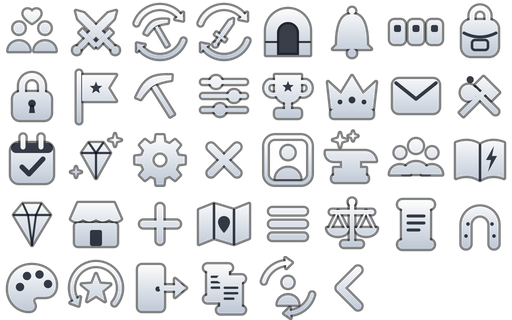
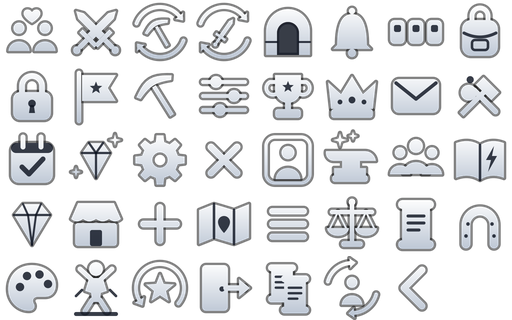
Relevo mais manso: terraco de 3 blocos e serra do planalto menor
O auto path travava nos morros: degrau de 4 blocos e parede que nem pulando
vence (o pulo sobe 3). Medido na ilha, por par de colunas vizinhas em terra:

  Floresta  >=4 blocos 3,33% -> 1,91%
  Gelo      >=4 blocos 1,14% -> 0,30%
  Montanha  >=2 blocos 25,4% -> 12,9% | >=4 blocos 8,09% -> 2,27%

- terraco_blocos 4 -> 3 em Floresta, Gelo e Montanha (Deserto ja era 2).
- Montanha: colina 18 -> 14, serra 40 -> 26 e corte mais tarde.
- Cache de altura VERSAO 4 -> 5: o relevo mudou, o mundo regenera (3,6 s).
- Minerio: o corte do roxo sobe pra 0,82; com o patamar novo o topo engolia a
  faixa azul e a escada de raridade invertia.
- PULO vai pro quarto slot do arco, que so desenhava disco cinza sem funcao,
  com icone proprio no atlas.

Changed region(s): [[0.125, 0.7812, 0.75, 1.0], [0.7812, 0.8125, 0.8438, 0.9688]]

diff --git a/crates/shared/src/terreno.rs b/crates/shared/src/terreno.rs
@@ -238,7 +238,7 @@ impl Bioma {
                 colina: (8.0, 15.0),
                 serra: (12.0, 30.0),
                 corte: [0.42, 0.52, 0.66, 0.78],
-                terraco_blocos: 4,
+                terraco_blocos: 3,
                 terraco_forca: 0.92,
             },
             // Gelo e' chapada com pico seco: muita planicie, e quando sobe,
@@ -248,7 +248,7 @@ impl Bioma {
                 colina: (7.0, 12.0),
                 serra: (12.0, 24.0),
                 corte: [0.50, 0.58, 0.70, 0.80],
-                terraco_blocos: 4,
+                terraco_blocos: 3,
                 terraco_forca: 0.94,
             },
             // Duna: amplitude baixa, quase nunca serra e SEM terraco —
@@ -267,16 +267,16 @@ impl Bioma {
             // virar patamar de andar, que e' o que separa planalto de morro.
             Bioma::Montanha => PerfilDeRelevo {
                 planicie: (8.0, 5.0),
-                colina: (14.0, 18.0),
-                serra: (18.0, 40.0),
+                colina: (14.0, 14.0),
+                serra: (18.0, 26.0),
                 // A serra domina, mas nao sozinha: com o corte em 0,18 quase
                 // metade da terra colapsava num nivel so' e a ilha virava uma
                 // mesa — 46% das colunas na mesma faixa de altura.
-                corte: [0.28, 0.38, 0.52, 0.64],
+                corte: [0.34, 0.46, 0.62, 0.74],
                 // Degrau grande e' o que separa PLANALTO de morro, mas a
                 // forca fica abaixo do gelo: 0,95 com degrau de 6 nivelava
                 // tudo.
-                terraco_blocos: 4,
+                terraco_blocos: 3,
                 terraco_forca: 0.85,
             },
         }
@@ -1168,15 +1168,14 @@ pub const MINERIO_LIMIAR: f32 = 0.42;
 /// pico, melhor o minerio — e a pedra roxa fica no ponto mais alto da ilha,
 /// que e' o unico jeito de o topo da montanha ser um destino.
 ///
-/// As faixas caem ENTRE os patamares do relevo (o terraco sobe de 2 em 2
-/// unidades), nunca em cima de um: faixa cortando um patamar ao meio poria
-/// pedra de duas cores no mesmo cume. Medido na ilha inicial com a regra de
-/// cume + chao limpo, estas faixas dao 226 cinza, 105 verde, 50 azul e 25
-/// roxo — cada cor com metade da anterior, e a roxa so' nos picos de 30 u
-/// pra cima.
+/// As faixas caem ENTRE os patamares do relevo, nunca em cima de um: faixa
+/// cortando um patamar ao meio poria pedra de duas cores no mesmo cume. O
+/// corte do roxo subiu pra 0,82 quando o terraco desceu de 4 pra 3 blocos
+/// (degrau de 4 e' parede que nem pulando vence): com 0,78 o topo engolia a
+/// faixa azul e a escada de raridade invertia.
 pub fn tier_de_minerio(altura: f32, pico: f32) -> u8 {
     let t = altura / pico.max(1.0);
-    if t < 0.57 { 1 } else if t < 0.73 { 2 } else if t < 0.78 { 3 } else { 4 }
+    if t < 0.57 { 1 } else if t < 0.73 { 2 } else if t < 0.82 { 3 } else { 4 }
 }
 
 /// A pedra de minerio desta coluna, se houver.
@@ -2029,7 +2028,7 @@ const MAGICA: [u8; 4] = *b"TALT";
 /// 3: plato da cidade maior, patio do porto e o pier erguido no relevo.
 /// 4: o porto so' assenta em costa de MAR ABERTO (antes caia em lago), e o
 /// patio e o pier mudaram de lugar.
-const VERSAO: u16 = 4;
+const VERSAO: u16 = 5;
 
 impl Ilha {
     pub fn gerar(semente: i32, raio_blocos: i32, bioma: Bioma, escala_altura: f32) -> Self {

diff --git a/crates/client/src/hud.rs b/crates/client/src/hud.rs
@@ -250,16 +250,21 @@ pub fn draw_pulo(z: &Zonas, no_ar: bool) -> (bool, bool) {
     let m = mouse();
     let sobre = r.contains(m);
     let segurando = sobre && is_mouse_button_down(MouseButton::Left);
-    estilo::cartao(r, sobre, no_ar);
     let c = r.center();
-    let cor = if no_ar { estilo::OURO } else { Color::new(0.62, 0.78, 0.95, 1.0) };
-    // Seta pra cima com uma base: le' como "pular" sem precisar de texto.
-    let s = r.w * 0.22;
-    estilo::traco(c + vec2(0.0, s * 0.9), c - vec2(0.0, s * 0.9), 2.4, cor);
-    estilo::traco(c - vec2(0.0, s * 0.9), c + vec2(-s * 0.7, s * 0.1), 2.4, cor);
-    estilo::traco(c - vec2(0.0, s * 0.9), c + vec2(s * 0.7, s * 0.1), 2.4, cor);
-    estilo::traco(c + vec2(-s * 0.8, s * 1.2), c + vec2(s * 0.8, s * 1.2), 2.2, estilo::alfa(cor, 0.7));
-    layout::chip(r, "␣");
+    let raio = r.w * 0.5;
+    // Mesmo disco das skills: ele E' o quarto slot do arco.
+    let cor = if no_ar { estilo::OURO } else { Color::new(0.62, 0.80, 0.98, 1.0) };
+    let e = estilo::estado(sobre, is_mouse_button_down(MouseButton::Left), false, no_ar);
+    estilo::botao_redondo(c, raio, cor, e, no_ar);
+    if !crate::icones_ui::ui("pulo", c, raio * 1.35, cor) {
+        // Sem a arte no atlas: seta pra cima com o chao embaixo.
+        let s = raio * 0.42;
+        estilo::traco(c + vec2(0.0, s * 0.9), c - vec2(0.0, s * 0.9), 2.6, cor);
+        estilo::traco(c - vec2(0.0, s * 0.9), c + vec2(-s * 0.7, s * 0.1), 2.6, cor);
+        estilo::traco(c - vec2(0.0, s * 0.9), c + vec2(s * 0.7, s * 0.1), 2.6, cor);
+        estilo::traco(c + vec2(-s * 0.8, s * 1.25), c + vec2(s * 0.8, s * 1.25), 2.2, estilo::alfa(cor, 0.7));
+    }
+    layout::chip(r, "4");
     (sobre && is_mouse_button_pressed(MouseButton::Left), segurando)
 }
 

diff --git a/crates/client/src/habilidades.rs b/crates/client/src/habilidades.rs
@@ -108,7 +108,9 @@ impl Habilidades {
 
     pub fn pega_mouse(&self) -> bool {
         let (x, y) = mouse_position();
-        self.arrasto.inicio.is_some() || (0..3).any(|i| retangulo(i).contains(vec2(x, y)))
+        // 0..4: o quarto e' o botao de PULO, e tocar nele tambem nao pode
+        // virar clique no mundo.
+        self.arrasto.inicio.is_some() || (0..4).any(|i| retangulo(i).contains(vec2(x, y)))
     }
 
     pub fn pedido(&mut self, contexto: Contexto) -> Option<u32> {
@@ -195,11 +197,8 @@ impl Habilidades {
 
     pub fn barra(&self, conjunto: Conjunto, nivel: u32, mp: i32) {
         let agora = get_time();
-        // O slot 4: reservado, cinza, ate' existir a quarta skill.
-        let r4 = retangulo(3);
-        let c4 = r4.center();
-        estilo::botao_redondo(c4, r4.w * 0.5, estilo::SUAVE, estilo::Estado::Desabilitado, false);
-        crate::hud_layout::chip(r4, "4");
+        // O slot 4 e' o PULO (`hud::draw_pulo`): era um disco cinza sem
+        // funcao, e no celular nao ha' tecla de espaco pra pular.
         for i in 0..3 {
             let r = retangulo(i);
             let skill = self.catalogo.iter().find(|s| s.conjunto == conjunto && s.ordem as usize == i + 1);

diff --git a/crates/client/src/hud_layout.rs b/crates/client/src/hud_layout.rs
@@ -227,13 +227,10 @@ fn monta(sw: f32, sh: f32, s: f32) -> Zonas {
         let c = ca + d * s;
         Rect::new(c.x - rs, c.y - rs, rs * 2.0, rs * 2.0)
     });
-    // PULO: botao de ACAO, no arco junto das skills — o celular nao tem tecla
-    // de espaco. Fica acima da skill 2, longe o bastante das outras pra nao
-    // encostar (o teste de sobreposicao cobre isso).
-    let pulo = {
-        let c = ca + vec2(-150.0, -212.0) * s;
-        Rect::new(c.x - rs, c.y - rs, rs * 2.0, rs * 2.0)
-    };
+    // PULO: e' o QUARTO slot do arco, que estava reservado e so' desenhava um
+    // disco cinza sem funcao. O celular nao tem tecla de espaco, e este e' o
+    // lugar que o polegar ja' procura.
+    let pulo = skills[3];
     // Linha de baixo, a' esquerda do arco: [COLETA][COMBATE][C][8][9][0].
     let direita = sw - 312.0 * s;
     let yb = base - 14.0 * s;
@@ -320,7 +317,6 @@ impl Zonas {
             ("joystick", self.joystick),
             ("economia", self.economia),
             ("montaria", self.montaria),
-            ("pulo", self.pulo),
             ("faixa", self.faixa),
             ("coleta", self.coleta),
             ("atacar", self.atacar),

diff --git a/tools/icones/gerar_icones_ui.py b/tools/icones/gerar_icones_ui.py
@@ -197,6 +197,15 @@ HUD = {
     "cadeado": [("S", "M22,30V22a10,10 0 0 1 20,0V30", 6), ("F", rrect(13, 28, 38, 28, 7)),
                 ("D", circ(32, 39.5, 3.8)), ("D", poly([(30.2, 41), (33.8, 41), (35, 49), (29, 49)]))],
     "atacar": espada(32, 31, 45, 1.18) + espada(32, 31, -45, 1.18),
+    "pulo": [("F", circ(32, 13, 7)),
+             ("F", "M25,22h14l4,13l-6,2l-1,9h-8l-1,-9l-6,-2Z"),
+             ("S", linha((28, 24), (16, 13)), 5),
+             ("S", linha((36, 24), (48, 13)), 5),
+             ("S", linha((28, 44), (21, 55)), 5),
+             ("S", linha((36, 44), (43, 55)), 5),
+             ("DS", linha((12, 58), (52, 58)), 4),
+             ("DS", linha((18, 34), (12, 40)), 2.6),
+             ("DS", linha((46, 34), (52, 40)), 2.6)],
     "auto_combate": setas_girando() + espada(32, 32, 35, 0.66),
     "auto_coleta": setas_girando() + picareta(32, 33, -30, 0.62),
     "coleta": picareta(32, 32, -32, 0.95),

diff --git a/crates/client/src/icones_ui_indice.rs b/crates/client/src/icones_ui_indice.rs
@@ -56,11 +56,12 @@ pub const UI: &[(&str, u16)] = &[
     ("missoes", 30),
     ("montaria", 31),
     ("paleta", 32),
-    ("recuperar_xp", 33),
-    ("sair", 34),
-    ("todas_missoes", 35),
-    ("trocar_personagem", 36),
-    ("voltar", 37),
+    ("pulo", 33),
+    ("recuperar_xp", 34),
+    ("sair", 35),
+    ("todas_missoes", 36),
+    ("trocar_personagem", 37),
+    ("voltar", 38),
 ];
 
 /// (nome, celula), ordenado por nome.
